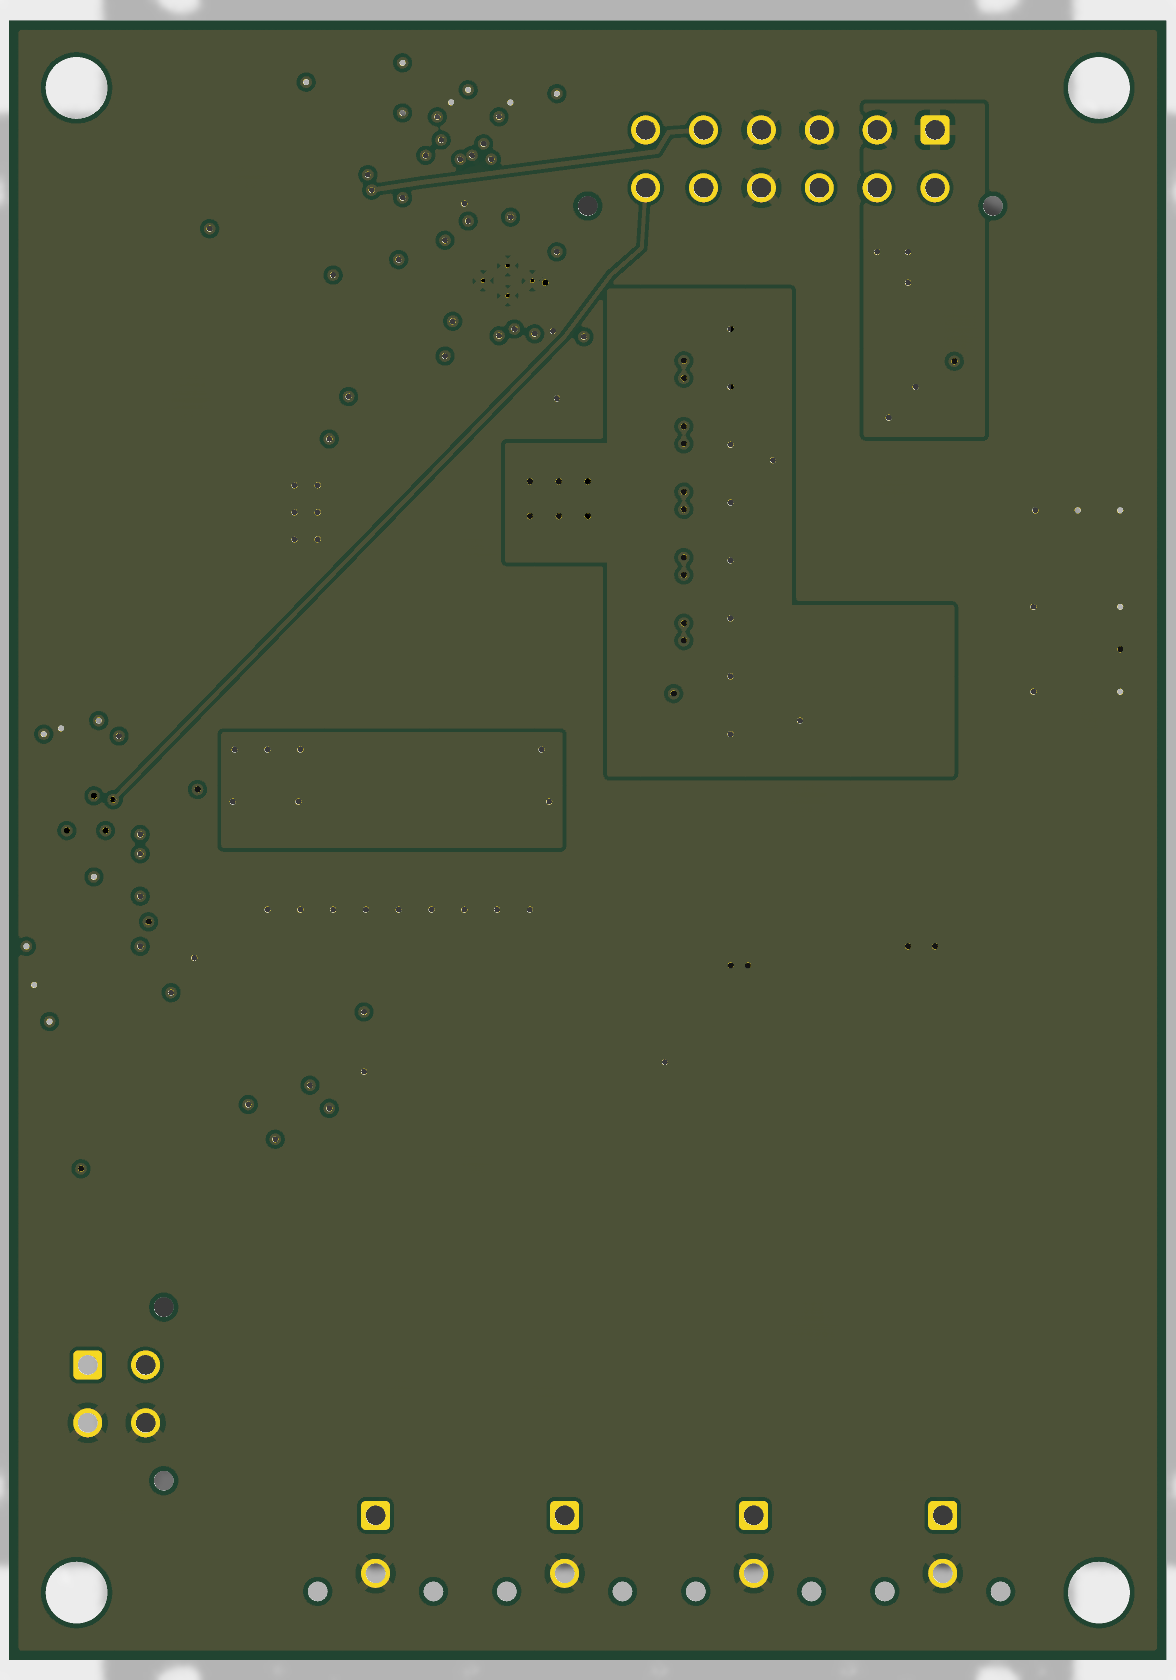
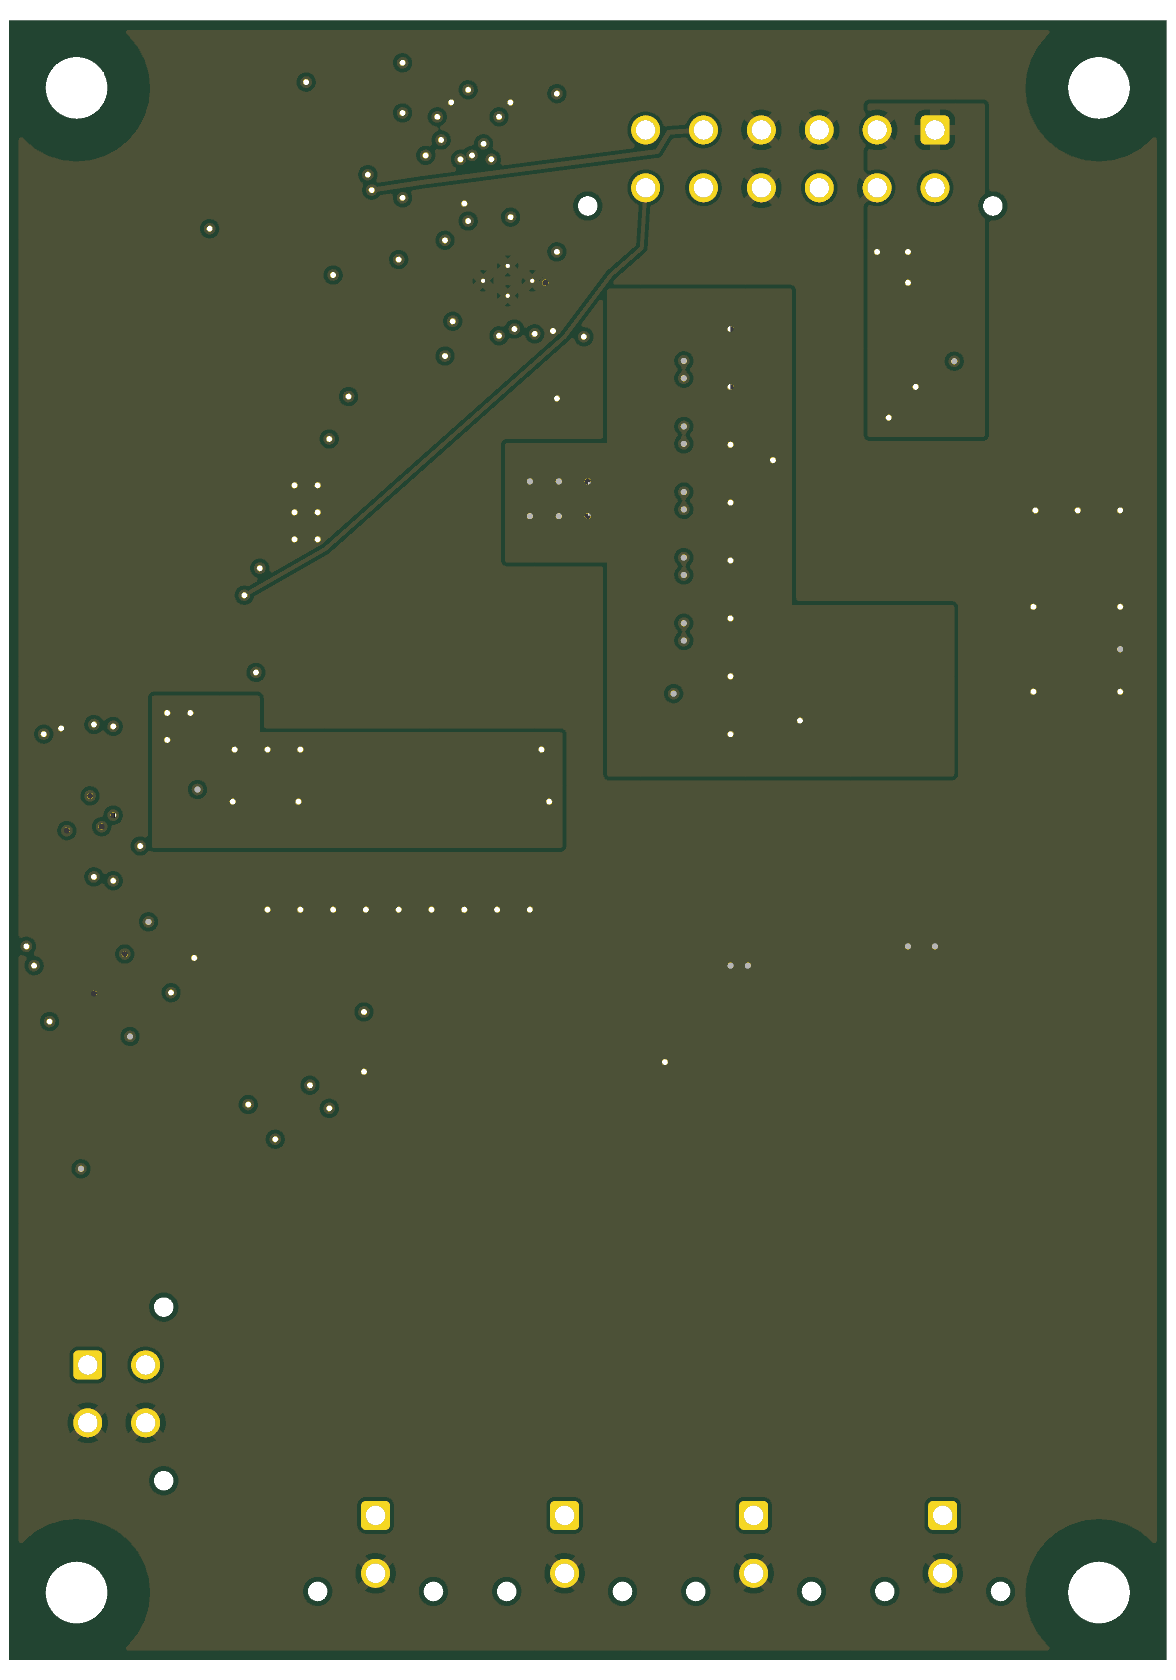
buck board: order package rebuilt (fab_check 0; README: 28 of 139 vias in pads, JLC fills 0.15-0.55 mm), renders redone from the rebuilt board

diff --git a/hardware/power-board/buck12/fab/README.md b/hardware/power-board/buck12/fab/README.md
@@ -19,7 +19,7 @@ Upload `marengo_buck12-gerbers.zip` (the 14 files of `gerbers/`). On the order f
 | Thickness | 1.6 mm |
 | Copper | **2 oz outer, 0.5 oz inner** |
 | Surface finish | **OSP** |
-| Via covering | **Epoxy filled and capped (IPC-4761 type VII), all vias.** 27 of the 132 vias are in SMD pads (the input ceramics' and C24's GND pads, Q1's drain tab, the shunts' sense pads), plus U1's four 0.2 mm thermal vias in its exposed pad. Drills: 0.3 mm (132 vias), 0.2 mm (4, U1's exposed pad), 1.02 mm (24 connector pins) |
+| Via covering | **Epoxy filled and capped (IPC-4761 type VII), all vias.** 28 of the 139 vias are in SMD pads (the GND pads of the input ceramics, C1, C2, C24 and D3, Q1's drain tab, the shunts' four sense pads, TPV6), plus U1's four 0.2 mm thermal vias in its exposed pad (JLC fills 0.15-0.55 mm). Drills: 0.3 mm (139 vias), 0.2 mm (4, U1's exposed pad), 1.02 mm (24 connector pins) |
 | Smallest drill | **0.2 mm** (the four in U1's exposed pad; JLC's 6-layer minimum is 0.15 mm) |
 | Solder mask | both sides, any colour; no openings drawn on the bottom |
 | Silkscreen | top only; the bottom file holds only the bottom mask openings plotted clear and prints nothing |
